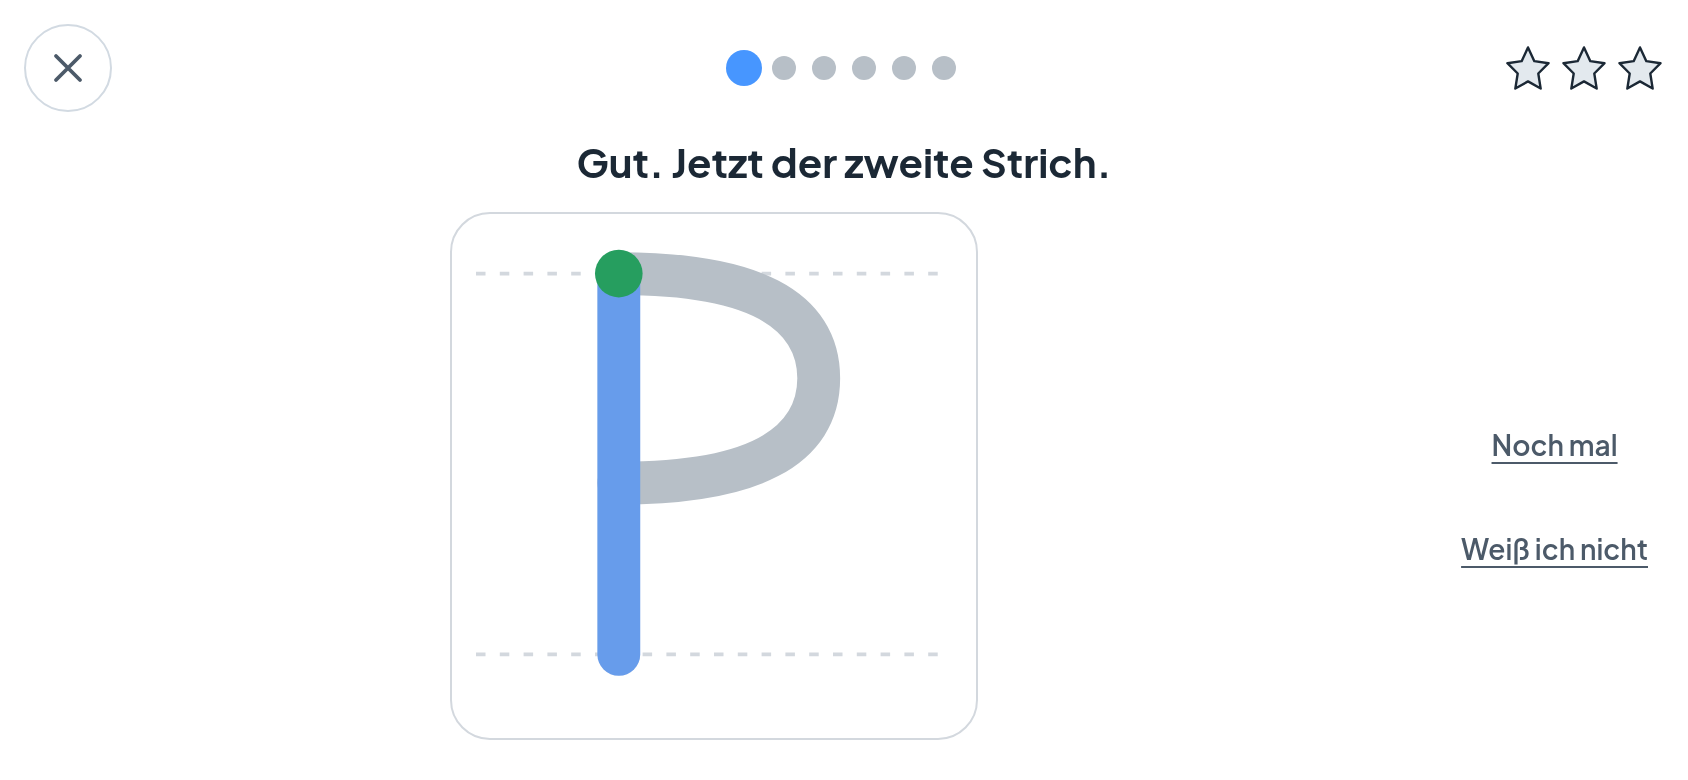
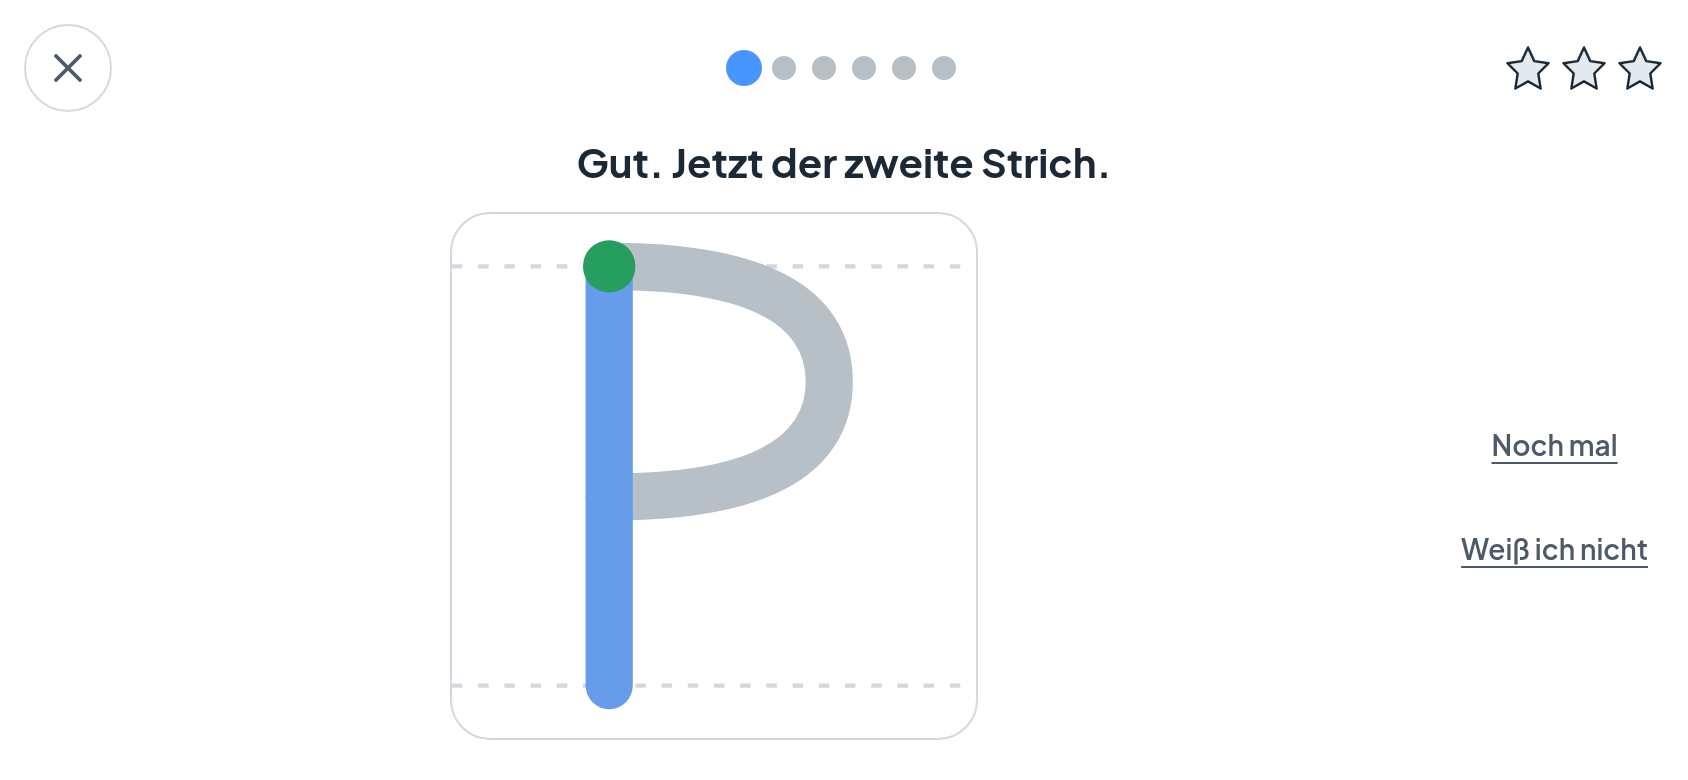
N2a fertig: Tor, Rauchtest, passt, Aufnahmen und Doku

Changed region(s): [[0.2773, 0.3077, 0.5545, 0.9231]]

diff --git a/prototyp/spiel.js b/prototyp/spiel.js
@@ -745,11 +745,17 @@ const buchstabenBild = (x, ton) => `
        stroke-linecap="round" stroke-linejoin="round">${
     x.zuege.map(d => `<path d="${d}"/>`).join('')}</svg>`;
 
-/** Das Bild EINES Stuecks - Umriss, Rechnung oder Buchstabe. */
-const stueckBild = (x, ton, rahmen) =>
+/** Das Bild EINES Stuecks - Umriss, Rechnung oder Buchstabe.
+ *
+ * `offen` heisst „noch nicht gesammelt". Ein offener Umriss ist blass, und
+ * das ist kein Schmuck: im Forscherbuch stehen gesammelte und offene
+ * nebeneinander, und der Unterschied ist die ganze Auskunft. Der erste
+ * Entwurf dieser Zusammenfassung hat ihn verloren - die Strichdeckung
+ * stand fest auf .6 statt .25 -, und gemerkt hat es der Bildvergleich. */
+const stueckBild = (x, ton, rahmen, offen = false) =>
     x.pfad  ? `<svg viewBox="${rahmen}" aria-hidden="true"><path d="${x.pfad}" fill-rule="evenodd"
-                fill="${ton}" stroke="var(--tinte)" stroke-opacity=".6" stroke-width="1.6"
-                vector-effect="non-scaling-stroke"/></svg>`
+                fill="${ton}" stroke="var(--tinte)" stroke-opacity="${offen ? .25 : .6}"
+                stroke-width="1.6" vector-effect="non-scaling-stroke"/></svg>`
   : x.zuege ? buchstabenBild(x, ton)
   :           `<div class="rechenkleber" style="--ton:${ton}">${x.frage}</div>`;
 
@@ -1151,8 +1157,20 @@ function vorlaufVorrat(ebeneId){
  * vierhundert Punkten, und darueber und darunter je ein Drittel leeres
  * Band. Das sah nicht nach Auswahl aus, sondern nach vergessenem Inhalt.
  */
+/* Und HOECHSTENS drei Reihen.
+ *
+ * Gemessen auf dem Zielgeraet mit Leiste: dem Gitter bleiben zwischen
+ * Satz und Knopf 172 Punkte, eine Karte braucht mindestens 41 und die
+ * Luecke 8. Vier Reihen sind 188 - die letzte lag acht Punkte im
+ * Streifen des iPhone. Aufgefallen ist das erst beim Abc: sechzehn
+ * Bundeslaender ergaben zwei Reihen, sechsundzwanzig Buchstaben vier.
+ *
+ * Die Breite gibt dafuer nach: aus acht Spalten werden neun, und die
+ * Karte wird 85 statt 96 Punkte breit. Das traegt auch das laengste
+ * Merkwort („Xylofon"). Hoehe ist hier die knappe Groesse, nicht Breite. */
+const REIHEN_MAX = 3;
 const vorlaufGitter = (n) => {
-  const reihen = n <= 3 ? 1 : Math.max(2, Math.ceil(n / 8));
+  const reihen = n <= 3 ? 1 : Math.min(REIHEN_MAX, Math.max(2, Math.ceil(n / 8)));
   return { reihen, spalten: Math.max(1, Math.ceil(n / reihen)) };
 };
 
@@ -1204,7 +1222,8 @@ async function vorlauf(ebeneId){
     mitte:`<span class="marke">${ebene ? ebene.titel : 'Anschauen'}</span>` }) + `
     <div class="rollen vorlauf">
       <div class="unter mitte-satz">${satz}</div>
-      <div class="kleber" style="--spalten:${gitter.spalten};--reihen:${gitter.reihen}">${stuecke.map((x, i) => `
+      <div class="kleber${gitter.spalten > 8 ? ' viel' : ''}" style="--spalten:${
+        gitter.spalten};--reihen:${gitter.reihen}">${stuecke.map((x, i) => `
         <button class="aufkleber da" data-lesen="${vorlaufAnsage(x, ebeneId)}"
                 title="${x.gebiet ? `${x.gebiet}: ${x.name}` : x.name}">
           ${stueckBild(x, `var(${FL[i%7]})`, rahmen(x))}
@@ -1756,7 +1775,7 @@ function schreibschirm(){
     <div class="schreibraum">
     <div class="frage" id="frage">Fahre das <strong>${ziel.zeichen}</strong> nach.</div>
     <div class="schreibfeld"><div class="feldkasten">
-      <svg id="feld" class="feld" viewBox="0 0 100 100" role="application"
+      <svg id="blatt" class="schreibblatt" viewBox="0 0 100 100" role="application"
            aria-label="Schreibfläche für den Buchstaben ${ziel.zeichen}">
         <g class="linien" aria-hidden="true">
           <line x1="0" y1="10" x2="100" y2="10"/>
@@ -1774,7 +1793,7 @@ function schreibschirm(){
       <button class="leise" id="weissnicht">Weiß ich nicht</button>
     </div></div>`;
 
-  const feld = s.querySelector('#feld');
+  const feld = s.querySelector('#blatt');
   const zugEl = s.querySelector('#zug');
   const anfangEl = s.querySelector('#anfang');
   /* Der Anfangspunkt wird GEZEICHNET oder nicht - nicht versteckt.
@@ -3077,7 +3096,7 @@ async function forscherbuch(){
               :(x.zuege ? `${x.zeichen} wie ${x.wort}` : x.frage ? `${x.frage} = ${x.name}` : x.name)}"
             title="Fach ${x.fach||'—'}">
       ${stueckBild(x, offen && x.pfad ? 'var(--linie)' : `var(${FL[x.i%7]})`,
-                   eigenerRahmen(x.pfad) || g.vb)}
+                   eigenerRahmen(x.pfad) || g.vb, offen)}
       <span>${offen ? '?' : stueckFuss(x)}</span>
       ${x.gekonnt?'<i class="siegel"></i>':''}
     </button>`;

diff --git a/prototyp/vorlage.html b/prototyp/vorlage.html
@@ -197,7 +197,9 @@ body{background:linear-gradient(168deg,var(--grund) 0%,var(--grund-2) 100%);
      Gitterkind an seinem Inhalt, und der Inhalt darf hier auf null
      schrumpfen (`flex:1 1 0`). Uebrig blieben sechs flache Striche mit
      uebereinanderliegender Schrift. */
-  --kleber-breit:180px;--kleber-hoch:168px}
+  --kleber-breit:180px;--kleber-hoch:168px;
+  /* Fuer Gitter mit mehr als acht Spalten - siehe `.kleber.viel`. */
+  --kleber-breit-eng:120px}
 .rollen.vorlauf .mitte-satz{text-align:center;max-width:52ch}
 /* Wieviele Karten NEBENEINANDER, und wie hoch sie werden.
  *
@@ -236,6 +238,20 @@ body{background:linear-gradient(168deg,var(--grund) 0%,var(--grund-2) 100%);
   max-width:min(900px, calc(var(--spalten,8) * var(--kleber-breit)));
   max-height:calc(var(--reihen,2) * var(--kleber-hoch)
                 + (var(--reihen,2) - 1) * var(--r2))}
+/* Mehr als acht in einer Reihe: dann muss das Mindestmass kleiner werden.
+ *
+ * Die 88 Punkte oben sind fuer sechzehn Bundeslaender gemessen - acht in
+ * einer Reihe. Beim Abc sind es sechsundzwanzig Karten; sie SOLLEN in drei
+ * Reihen zu neun stehen, aber `auto-fit` legte weiter nur sieben Spalten
+ * an, weil 88 Punkte nicht neunmal in die Breite passen. Ergebnis waren
+ * wieder vier Reihen, und die letzte lag im Streifen des iPhone.
+ * Gemessen auf 844 x 390 MIT Leiste: nutzbar bleiben 756 Punkte, neun
+ * Karten brauchen also hoechstens 76. Die 72 sind die naechste runde Zahl
+ * darunter - und ein Wort wie „Xylofon" traegt sie noch. */
+.rollen.vorlauf .kleber.viel{
+  grid-template-columns:repeat(auto-fit,minmax(max(72px,
+    calc(100% / var(--spalten,9) - var(--r2))),1fr));
+  max-width:min(900px, calc(var(--spalten,9) * var(--kleber-breit-eng)))}
 /* Der Umriss nimmt sich den Platz, der uebrig ist.
  *
  * Die Zeilenhoehe des Gitters richtet sich nach der HOECHSTEN Karte -
@@ -693,11 +709,18 @@ body{background:linear-gradient(168deg,var(--grund) 0%,var(--grund-2) 100%);
 .feldkasten{height:100%;aspect-ratio:1;max-width:100%;touch-action:none;
   background:var(--papier);border:var(--strich) solid var(--linie);
   border-radius:var(--rund-karte);overflow:hidden}
-.feld{display:block;width:100%;height:100%;touch-action:none;cursor:crosshair;
-  overscroll-behavior:none}
+/* `.schreibblatt` und nicht `.feld`.
+   Der erste Entwurf hiess `.feld` - und so heisst der Kartenbereich des
+   Spielbildschirms auch. `.feld{display:block}` hat dessen `display:flex`
+   ueberschrieben: die Antwortliste stand danach UNTER der Karte statt
+   neben ihr und lief auf allen vier Querformaten aus dem Bild. Gefunden
+   von `passt`, mit 59 Meldungen auf einmal - und keine davon nannte den
+   Schreibschirm, weil der Schaden woanders lag. */
+.schreibblatt{display:block;width:100%;height:100%;touch-action:none;
+  cursor:crosshair;overscroll-behavior:none}
 /* Ober- und Grundlinie wie im Schreibheft - sie sagen, wie hoch der
    Buchstabe wird, bevor der erste Strich da ist. */
-.feld .linien line{stroke:var(--linie);stroke-width:.8;stroke-dasharray:2 3}
+.schreibblatt .linien line{stroke:var(--linie);stroke-width:.8;stroke-dasharray:2 3}
 .vorlage path,.gemalt path,.zug{fill:none;stroke-width:9;
   stroke-linecap:round;stroke-linejoin:round}
 .vorlage .spaeter{stroke:var(--linie);opacity:.55}
@@ -1011,6 +1034,9 @@ code{font-family:ui-monospace,monospace;font-size:.9em;background:var(--linie);
   .rollen.vorlauf .kleber{gap:var(--r1);
     grid-template-columns:repeat(auto-fit,minmax(max(88px,
       calc(100% / var(--spalten,8) - var(--r1))),1fr))}
+  .rollen.vorlauf .kleber.viel{
+    grid-template-columns:repeat(auto-fit,minmax(max(72px,
+      calc(100% / var(--spalten,9) - var(--r1))),1fr))}
   /* Ein Vorlauf mit Zuordnung traegt zwei Namen je Karte statt einem -
      „Mecklenburg-Vorpommern" unter „Schwerin". */
   .rollen.vorlauf .kleber:has(.dazu){grid-template-columns:repeat(auto-fit,minmax(max(96px,

diff --git a/docs/Lernkiste-STAND.md b/docs/Lernkiste-STAND.md
@@ -4621,3 +4621,136 @@ läuft auf `glatt` und die Zeit — beides wird längst gezählt, es entsteht
 keine neue Zahl —, und die Strenge wird nicht geschätzt, sondern eingestellt:
 an absichtlich krummen Zügen, die das Tor selbst erzeugt, bis echte Züge von
 Fiona vorliegen.
+
+---
+
+## Runde N2a: Fiona schreibt
+
+Die größte neue Sache seit Mathe, und die erste, die einem Kind etwas
+beibringt statt es abzufragen: eine dritte Welt, **nur für Fiona**, in der
+sie Buchstaben nachfährt und dann selbst schreibt.
+
+### Eine Quelle für die Form und für die Messung
+
+Ein Zug steht als Pfadzeichenkette da — `M20 90 L50 10`. Dieselbe
+Zeichenkette zeichnet das SVG auf dem Bildschirm **und** wird abgetastet,
+wenn gemessen wird, ob der Finger auf ihr geblieben ist.
+
+Der erste Entwurf hatte zwei Fassungen: Punktlisten zum Messen, Pfade zum
+Zeichnen. Das ist genau die Falle „was zweimal dasteht, veraltet einmal" —
+und sie wäre unsichtbar gewesen: die Vorlage auf dem Bildschirm liefe
+langsam von der Vorlage weg, gegen die geprüft wird, und das Kind bekäme
+gesagt, es sei danebengefahren, obwohl es genau auf der Linie war.
+
+Der Preis ist ein eigener Abtaster, weil `getPointAtLength` einen Browser
+braucht und das Tor in Node läuft. Er kann M, L und Q — mehr braucht kein
+Druckbuchstabe.
+
+### Die Schwellen sind gemessen, nicht gegriffen
+
+Erkennung heißt hier: Form (ein symmetrischer Punktabstand) plus Zug gegen
+Zug mit Richtung, Reihenfolge und Anzahl. Zwei Schwellen entscheiden —
+wie weit darf es weg sein, und wieviel Vorsprung braucht der Beste vor dem
+Zweiten.
+
+Der erste Entwurf setzte 13 und 1,2. Dann wurde der **Raum durchprobiert**:
+1040 künstlich verkrummte Fassungen der 26 Vorlagen gegen 400 Gekritzel.
+
+```
+  Abstand  Vorsprung |  richtig erkannt  |  Gekritzel angenommen
+     10       1,2    |       97 %        |       0,0 %
+     11       1,6    |       97 %        |       0,0 %
+     13       1,2    |       97 %        |       7,0 %
+     14       1,2    |       97 %        |      10,0 %
+```
+
+Von 13 auf 11 herunter kostet **keinen einzigen** richtig erkannten
+Buchstaben und drückt das angenommene Gekritzel von 7 % auf null. Blind
+nachjustieren heißt, durch ein Schlüsselloch zu schauen — das hat T15 im
+anderen Verzeichnis drei Runden gekostet, und hier eine Viertelstunde
+gespart.
+
+Das **Soll** steht dabei nicht in `schreiben.js`, sondern im Backlog,
+Abschnitt 2.3. Stünde es im Prüfling, würden die Schwellen so lange
+verschoben, bis das Tor grün ist.
+
+### Drei Fehler, die nur der Blick gefunden hat
+
+**1. `hidden` bedeutete nicht hidden.** Die Regel des Browsers für
+`[hidden]` ist eine Vorgabe, und jede eigene Regel mit `display` schlägt
+sie. `.zahlen{display:flex}` tat genau das: **Lea sah beim Rechnen die vier
+Antwortknöpfe UND das Tippfeld**, obwohl das Feld ordentlich `hidden`
+gesetzt war. Ein alter Fehler, und kein Tor konnte ihn sehen — `passt`
+misst Überlauf, der Rauchtest tippt ins Eingabefeld und kommt damit durch,
+und die einzige Aufnahme eines Rechenbildschirms ist Fionas, die gar kein
+Tippfeld hat. Gefunden beim Bau von etwas ganz anderem.
+
+**2. `aspect-ratio` auf einem SVG tut nicht, was man denkt.** Gemessen kamen
+820 × 180 Punkte heraus statt eines Quadrats: ein SVG ohne eigene Breite
+fällt auf 100 % zurück, und das Verhältnis kommt nicht mehr zum Zug. Die
+Folge war unsichtbar — gezeichnet wurde an der richtigen Stelle, gemessen
+an der falschen, und nichts galt. Jetzt hält ein gewöhnlicher Kasten das
+Verhältnis, und die Umrechnung Finger → Vorlage läuft über
+`getScreenCTM()` statt über den Rahmen. Damit hängt die Richtigkeit nicht
+mehr am Stilblatt.
+
+**3. `hidden` gibt es auf einem SVG-Element gar nicht.** Der grüne
+Anfangspunkt stand auch dann noch da, als die Vorlage längst weg war — er
+zeigte auf einen Zug, den es nicht mehr gab.
+
+### Und einer, den `passt` mit 59 Meldungen auf einmal gefunden hat
+
+Meine Schreibfläche hieß `.feld`. So heißt der **Kartenbereich des
+Spielbildschirms** auch. `.feld{display:block}` hat dessen `display:flex`
+überschrieben: die Antwortliste stand danach unter der Karte statt neben
+ihr und lief auf allen vier Querformaten aus dem Bild.
+
+Bemerkenswert daran ist nicht der Fehler, sondern der Weg dorthin: 59
+Meldungen, und **keine einzige nannte den Schreibschirm**. Der Schaden lag
+woanders als die Ursache. Zu finden war das nur, indem der Stand von vorher
+noch einmal gefahren wurde — ein Arbeitsbaum an der alten Fassung, dieselbe
+Prüfung, grün. Erst damit stand fest, dass es an dieser Runde lag und nicht
+schon vorher rot war.
+
+### Was das Tor selbst gefunden hat
+
+**O und Q waren überhaupt nicht nachzufahren.** Die Richtungsprüfung fragte,
+ob der erste Punkt näher am Anfang der Vorlage liegt als an ihrem Ende. Bei
+einem geschlossenen Kreis ist der Anfang das Ende — „näher" ist nie wahr.
+Jetzt wird der ganze Zug gegen die Vorlage gelegt, einmal vorwärts und
+einmal rückwärts.
+
+**Ein halb gezogener kurzer Strich galt als fertig.** Die Deckung zählt,
+wieviel der Vorlage in Reichweite eines Fingers liegt, und bei einem kurzen
+Zug reicht die Toleranz weit: der Querbalken des A ist 36 Kastenpunkte
+lang, wer die Hälfte fährt, deckt mit 14 Punkten Nachsicht 89 Prozent ab.
+Vier Züge verhielten sich so. Jetzt muss der Finger auch dort ankommen, wo
+der Zug endet.
+
+### Was jetzt dasteht
+
+- **`npm run schreiben`**: 26 von 26 Vorlagen erkennen sich selbst, 96,9 %
+  der krumm geschriebenen werden richtig gelesen, 0,7 % werden verwechselt,
+  **0 von 400** Gekritzeln gelten als Buchstabe. Und die Gegenprobe im Tor
+  selbst: bei drei Punkten mehr Nachsicht kämen 40 durch — der Vorrat kann
+  also überhaupt etwas beweisen.
+- **Vier stehende Gegenproben**, alle schlagen an. Drei davon zielen auf
+  die Hälfte, die zählt: dass etwas ABGELEHNT wird.
+- Der Rauchtest spielt einen Buchstaben ganz durch — nachfahren, zweimal
+  Unsinn (der nicht gelten darf), dann richtig — und prüft, dass der
+  Fortschritt im Leitner ankommt.
+- `passt` sieht 17 Bildschirme je Größe statt 14, darunter die
+  **Weltenwahl in beiden Fassungen**: drei Karten für Fiona, zwei für Lea.
+- Drei neue Vorbilder, `quer-welten` erneuert.
+
+### Zwei Zahlen, die dazugehören
+
+Das Startbündel wächst von 180,3 auf **197,2 von 400 KB** (gzip) — die
+ganze Schreibwelt kostet 17 KB. Für N2b, den Klassifikator als Auffangnetz,
+bleiben damit gut 200 KB Luft.
+
+Und der Vorlauf: das Abc steht in **drei Reihen zu neun**. Vier Reihen
+passten nicht — die letzte lag acht Punkte im Streifen des iPhone. Die
+Breite gibt dafür nach: 85 statt 96 Punkte je Karte, und das trägt auch
+„Xylofon". Offen bleibt ein Hinweis: die Karten sind 42 statt 44 Punkte
+hoch (S3 im Backlog).

diff --git a/docs/Lernkiste-BACKLOG.md b/docs/Lernkiste-BACKLOG.md
@@ -145,11 +145,11 @@ Ein Blick, keine Suche. Die Blöcke darunter sagen, was jeder Punkt ist.
 
 | # | Punkt | wer merkt es | Nutzen | Aufwand | hängt an |
 |---|---|---|---|---|---|
-| 1 | **N2a** Buchstaben nachfahren, Striche vergleichen | Fiona | hoch | groß | — |
-| 2 | **N3** Buchstabe vorgelesen, selbst schreiben | Fiona | hoch | mittel | N2a |
-| 3 | **N4** Zahlen 1 bis 20 | Fiona | hoch | klein | N2a |
-| 4 | **N1** Stephan und Violeta, mit Vergleich | ihr beide | hoch | mittel | — |
-| 4a | **N2b** Der Klassifikator als Auffangnetz | Fiona | mittel | mittel | N2a |
+| ~~1~~ | ~~**N2a** Buchstaben nachfahren~~ | Fiona | hoch | groß | **gefahren** |
+| 1 | **N3** Buchstabe vorgelesen, selbst schreiben | Fiona | hoch | mittel | — |
+| 2 | **N4** Zahlen 1 bis 20 | Fiona | hoch | klein | — |
+| 3 | **N1** Stephan und Violeta, mit Vergleich | ihr beide | hoch | mittel | — |
+| 4 | **N2b** Der Klassifikator als Auffangnetz | Fiona | mittel | mittel | echte Züge |
 | 5 | **S1** Drei Sterne bedeuten zwei Dinge | Fiona, Lea | hoch | klein | — |
 | 6 | **A3** Der Fehler wird auch beim Ziehen benannt | Fiona, Lea | hoch | mittel | — |
 | 7 | **M4r** Sprechen auf dem iPhone, ein Mal wirklich | Fiona | hoch | mittel | ihr, einmal |
@@ -164,6 +164,7 @@ Ein Blick, keine Suche. Die Blöcke darunter sagen, was jeder Punkt ist.
 | 16 | **P2** Die festen Wartezeiten im Rauchtest | nur ich | gering | mittel | — |
 | 17 | **P3** Der Größenwächter im Korpus hat keine Gegenprobe | nur ich | gering | klein | M4r |
 | 18 | **P4** 47 von 92 Regelverweisen zeigen ins Leere | nur ich | gering | mittel | — |
+| 19 | **S3** Die Buchstabenkarten im Vorlauf sind 42 statt 44 pt hoch | Fiona | gering | klein | — |
 
 ---
 
@@ -205,7 +206,7 @@ auf denselben Ablageschlüssel legen — dann muss die Prüfung rot werden.
 
 ---
 
-### N2a · Buchstaben nachfahren — das große neue Spiel, nur für Fiona
+### N2a · Buchstaben nachfahren  ·  ERLEDIGT
 
 **Ziel.** Ein Buchstabe steht groß auf dem Bildschirm, zum Beispiel ein A.
 Fiona fährt ihn mit dem Finger nach. Danach — weiter unten oder auf einem
@@ -243,13 +244,35 @@ gäbe es keinen Maßstab, an dem man messen könnte, ob das Netz überhaupt
 etwas fängt. Die Strenge kommt aus W-B: nachfahren locker, frei schreiben
 mittel, nach drei Fehlversuchen wird vorgemacht.
 
-**Abnahme (Entwurf).** Ein Tor `schreiben` spielt gezeichnete Züge ein —
+**Erledigt.** Die dritte Welt steht (nur Fiona sieht sie), 26 Buchstaben in
+einer kleinen Pfadsprache, Nachfahren Zug für Zug und freies Schreiben mit
+Erkennung. Die Schwellen sind **gemessen**, nicht gegriffen: der Raum wurde
+durchprobiert (siehe die Tabelle in `src/inhalt/schreiben.js`), und der
+erste Entwurf hätte jedes vierzehnte Gekritzel zum Buchstaben erklärt, ohne
+dafür einen Buchstaben mehr zu erkennen.
+
+Drei Fehler fand nur der **Blick**, keiner ein Tor: `hidden` wurde von
+`.zahlen{display:flex}` überstimmt (Lea sah beim Rechnen die Auswahl UND
+das Tippfeld), `aspect-ratio` auf einem SVG tut nichts (das Schreibfeld war
+820 × 180 statt quadratisch), und `hidden` gibt es auf einem SVG-Element
+gar nicht (der grüne Anfangspunkt blieb stehen). Zwei weitere fand das neue
+Tor selbst: O und Q waren überhaupt nicht nachzufahren, und ein halb
+gezogener kurzer Strich galt als fertig.
+
+**Abnahme, gefahren.** Ein Tor `schreiben` spielt gezeichnete Züge ein —
 also echte Punktfolgen, keine Bilder — und prüft: ein sauber nachgefahrenes
 A wird angenommen; ein A, das die Vorlage um mehr als die erlaubte Breite
 verlässt, nicht; ein frei geschriebenes A wird als A erkannt; ein O wird
 **nicht** als A erkannt (das ist die Hälfte, die zählt — Regel 1). Und
 `passt` nimmt den Schreibbildschirm auf allen 7 Größen mit: eine
 Schreibfläche, die auf 844 × 390 zu klein ist, ist keine.
+
+Gemessen ist das jetzt: 26 von 26 Vorlagen erkennen sich selbst, **96,9 %**
+der krumm geschriebenen werden richtig gelesen, **0,7 %** werden für einen
+anderen Buchstaben gehalten, **0 von 400** Gekritzeln gelten als Buchstabe.
+Die Schreibfläche ist auf dem Zielgerät **262 × 262** Punkte — quadratisch,
+weil das Werkzeug im kurzen Querformat daneben statt darunter steht (180
+gegen 270 Punkte Höhe, gemessen). Vier stehende Gegenproben.
 
 ---
 
@@ -415,6 +438,13 @@ hinein.
 **P3 · Der Größenwächter in `vergleich`** (mindestens 100 Treffer, 50
 Nicht-Treffer im eingefrorenen Korpus) ist die einzige Prüfung ohne
 Gegenprobe — weil ihr Gegenstand noch nicht existiert. Fällt mit M4r.
+
+**S3 · Die Buchstabenkarten im Vorlauf sind zwei Punkte zu klein.**
+Gemessen mit `npm run passt -- --hinweise` auf dem iPhone quer mit Leiste:
+die 26 Karten des Abc sind **42 pt** hoch, die Zielmarke ist 44. `passt`
+führt das als Hinweis, nicht als Fehler — zu Recht, es sind zwei Punkte.
+Es steht hier, weil ausgerechnet diese Karten das sind, was Fiona antippt,
+um „A wie Affe" zu hören.
 
 **P4 · Die Regelnummern im Quelltext zeigen in eine andere Regelliste.**
 Gemessen am 30.08.2026: **92 Verweise der Form „Regel N"** stehen in `tor/`,

diff --git a/CLAUDE.md b/CLAUDE.md
@@ -22,7 +22,7 @@ Nicht alles wird immer geprüft. Was wann läuft, ist **gemessen** entschieden
 
 | Bahn | Wann | Dauer | Was |
 |---|---|---|---|
-| **`npm run schnell`** | bei **jeder** Änderung | **~24 s** (gemessen, 23 Aufnahmen) | inhalt · spielprobe · vergleich · bauen · budget, dann Rauchtest (Hauptweg) und **drei Drittel** des Bildvergleichs — vier Browser nebeneinander |
+| **`npm run schnell`** | bei **jeder** Änderung | **~32 s** (gemessen, 27 Aufnahmen) | inhalt · spielprobe · schreiben · vergleich · bauen · budget, dann Rauchtest (Hauptweg) und **drei Drittel** des Bildvergleichs — vier Browser nebeneinander |
 | `npm run tor` | wenn du unsicher bist, sonst gar nicht | ~5 min (gemessen 4:41) | die volle Kette, alle Größen, alle Bildschirme |
 | Runner, bei jedem Push | automatisch | 3–4 min, ohne dich | die volle Kette — und nur bei Grün geht etwas nach `/` |
 | Runner, nachts | automatisch | ~20 min, ohne dich | `npm run proben`: alle Gegenproben |
@@ -65,7 +65,7 @@ Proben hätten genau daran angeschlagen.
 ## Befehle
 
 ```
-npm run schnell    DIE NORMALE RUNDE. ~24 s. Siehe oben.
+npm run schnell    DIE NORMALE RUNDE. ~32 s. Siehe oben.
 npm run tor        die ganze Kette. Der Runner fährt sie ohnehin bei jedem
                    Push; hier nur, wenn du sie vorher sehen willst.
 npm run korpus     der Weg zur eingefrorenen Hälfte des Sprachkorpus.
